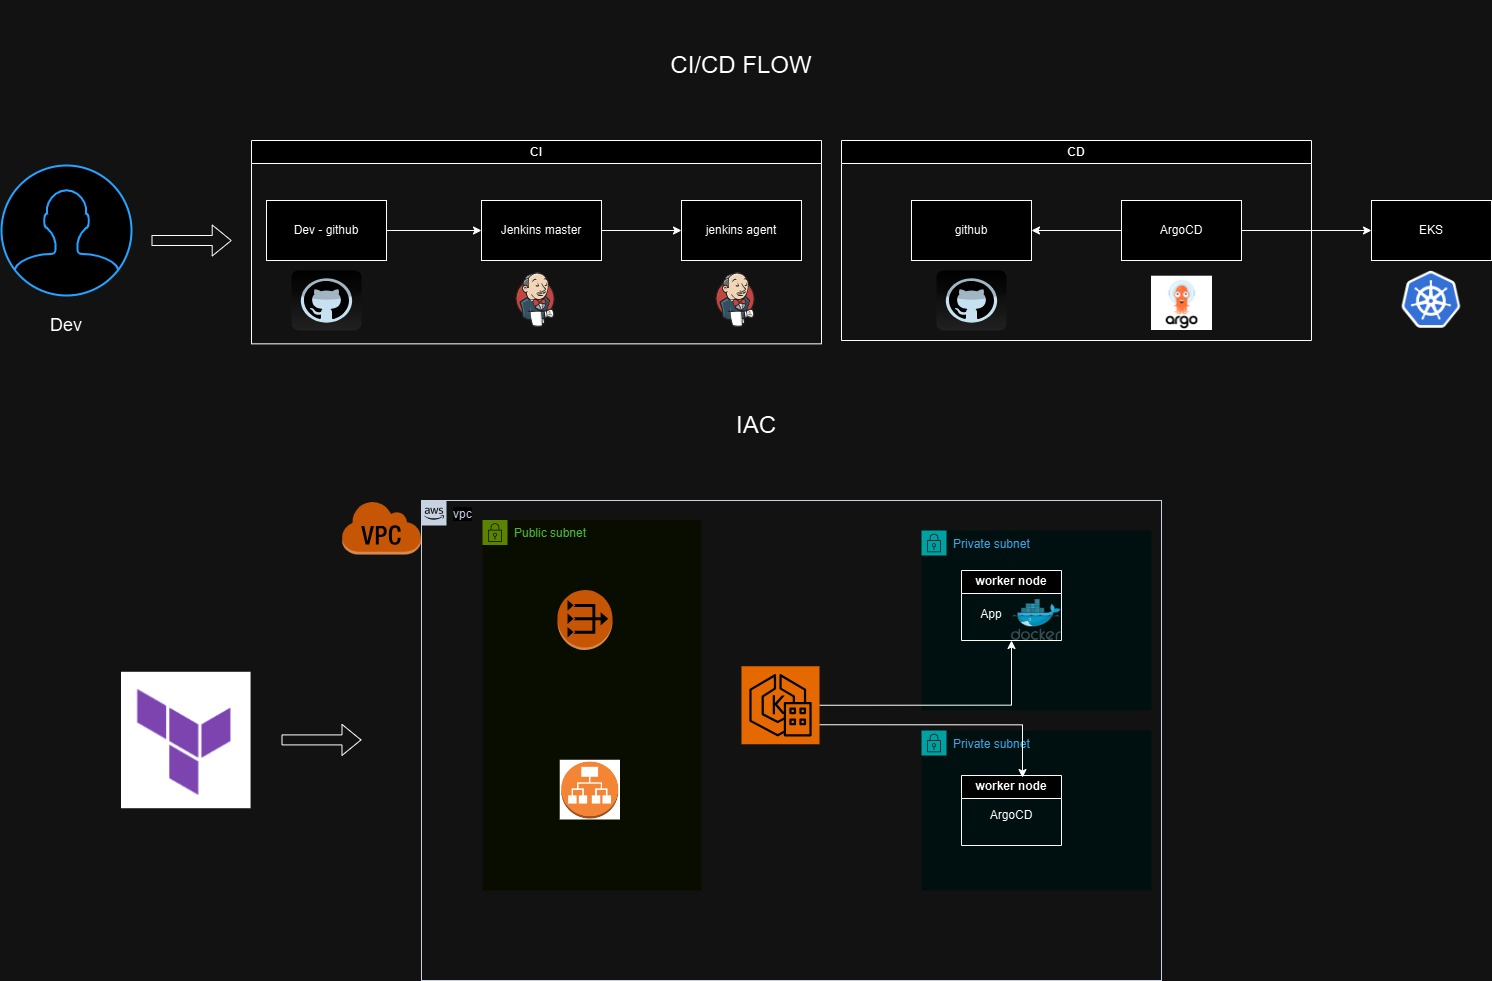
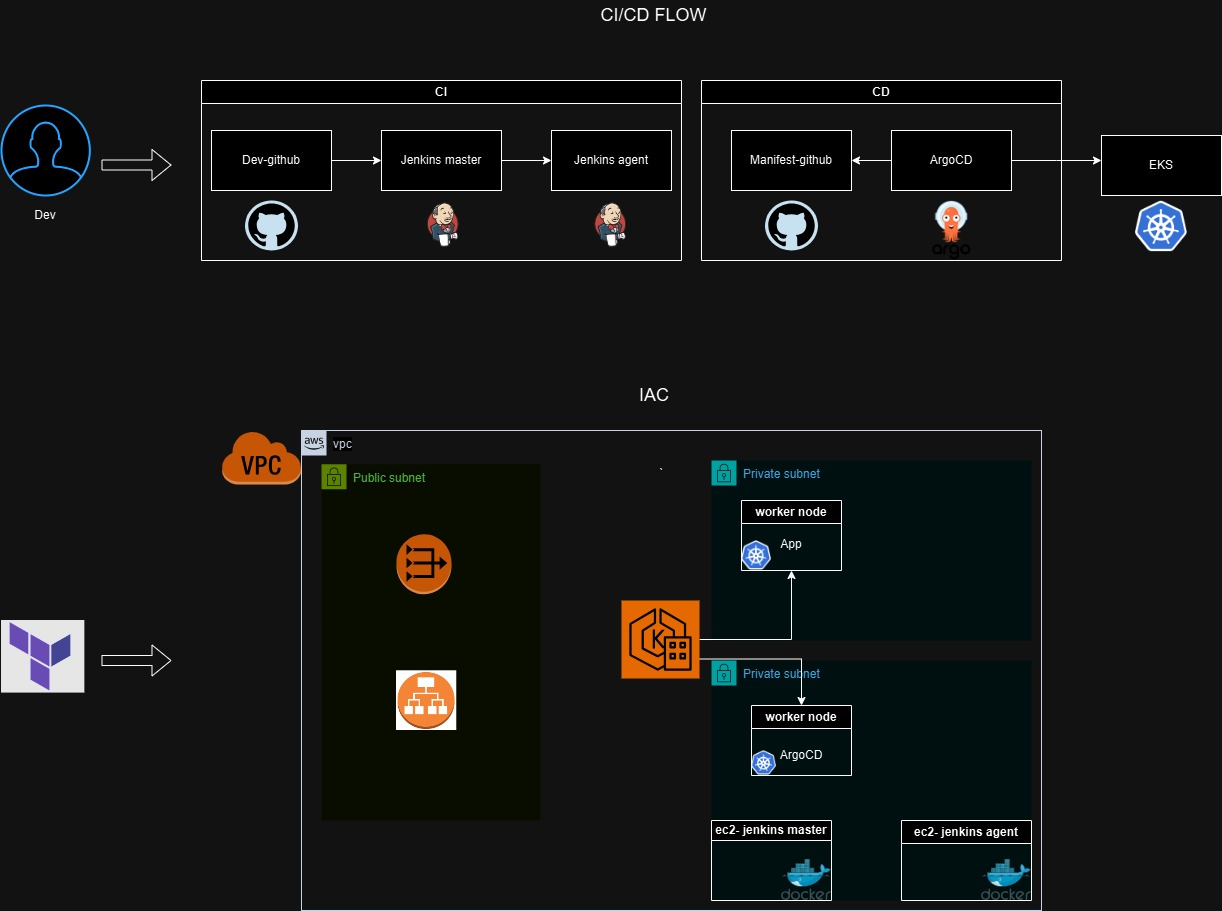
update files

diff --git a/app/test.py b/app/test.py
@@ -1,0 +1,14 @@
+import pytest
+import requests
+
+
+def test_runner():
+    """Get request to check if the site available"""
+    
+    response = requests.request("GET", f"http://localhost:8000/") # change the url to alb
+    assert response.status_code == 200
+
+if __name__ == "__main__":
+    print("Test python available")
+    test_runner()
+    

diff --git a/README.md b/README.md
@@ -1,7 +1,8 @@
 # Gitops CI/CD Project
 ### Create vpc in AWS with Terraform
 ### Create eks cluster and ArgoCD with Terraform
-### Jenkins pipeline for build test and trigger argocd (gitops)
+### Jenkins pipeline for build test and trigger ArgoCD (GitOps)
+### This project have two repo: Dev repo and Manifest repo
 #### NOTE: All the secret saved in Jenkins
 #
 <img src="migdal.jpg">
@@ -9,8 +10,9 @@
 ## Terraform - Terraform have 3 module:
 * VPC
 * EKS
-* ArgoCD
+* ArgoCD (ALB)
 #### NOTE: The state file saved in s3 bucket
+#### EKS worker on two AZ
 Create all the resource
 ```
 terraform init
@@ -28,13 +30,14 @@ argocd login $ARGOCD_SERVER --username admin --password $ARGO_PWD --insecure
 
 ```
 
-## Jenkins Pipeline
+## Jenkins Pipeline (not with terraform)
 ### CI pipeline
 * PULL
 * VERIFY
 * BUILD
+* TEST
 * PUSH
-* TRIGGET CD PIPELINE
+* TRIGGER CD PIPELINE
 * MESSAGE
 #### The pipeline will test all the branches but deploy only the main branch
 
@@ -47,9 +50,9 @@ argocd login $ARGOCD_SERVER --username admin --password $ARGO_PWD --insecure
 
 # Advance- sealed secret
 
-## Create secret with base64 for the dockerhub
-
-* Install secret manager in k8s
+## Sealed k8s secret
+1. Create secret with base64 for the DockerHub
+2. Install secret manager in k8s
 ```
 # kubeseal
 wget https://github.com/bitnami-labs/sealed-secrets/releases/download/v0.18.0/kubeseal-0.18.0-linux-amd64.tar.gz
@@ -60,13 +63,16 @@ sudo install -m 755 kubeseal /usr/local/bin/kubeseal
 wget https://github.com/bitnami-labs/sealed-secrets/releases/download/v0.18.0/controller.yaml
 kubectl apply -f controller.yaml
 
-
+```
+3. Sealed the secret
+```
 
 * run secret without apply in k8s for create kubeseal secret
 
-# kubeseal --format=yaml: Encrypts the secret using the Sealed Secrets public key from the controller in your cluster and outputs it in YAML format.
+# kubeseal --format=yaml: Encrypts the secret using the Sealed Secrets public key from the controller in the cluster and outputs it in YAML format.
 
 kubectl create -f secret.yaml --dry-run=client -o yaml | kubeseal --format=yaml > my-sealed-secret.yaml
+
 ```
 
 
